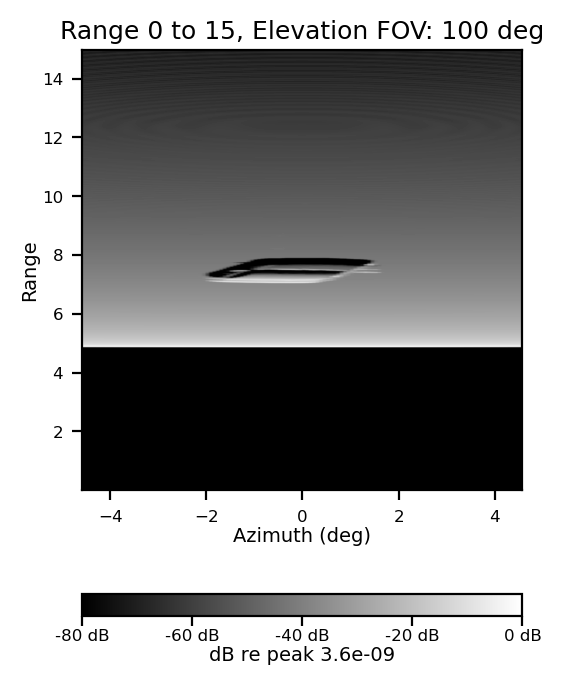
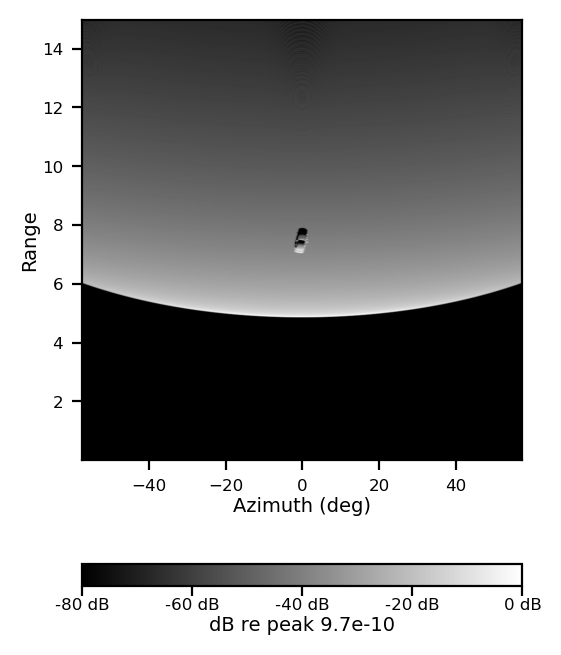
range density: proportional azimuth span, no panel title
Claude-Session: https://claude.ai/code/session_01GGmVrkSgyd4LF9qZZbmMeN

Changed region(s): [[0.0303, 0.0305, 0.9697, 0.7939], [0.0909, 0.855, 0.9697, 0.9771], [0.0909, 0.6107, 0.1515, 0.6412]]

diff --git a/latex/main.tex b/latex/main.tex
@@ -969,37 +969,56 @@ the range of the car, $\rho_{near} = 0.016$ to $\rho_{far} = 14.98$. The $M = 95
 $1/F_s$ apart, one per signal sample, so the rows do not beat against the samples. The fan spans
 $\Theta_h = 100^\circ$ in elevation with $R_h = 1600$ rays, so $\Delta\psi = 0.063^\circ$. At the
 elevation $e = 40.6^\circ$ of \texttt{pose\_num} 000000, the fan needs
-$2(90^\circ - e) = 98.9^\circ$ to reach nadir, and the sensor height is $h = 4.88$. All other
-parameters are the defaults of Table \ref{tab:fls-params}: a range of $\lVert\vec{v}\rVert = 7.5$,
-a Gaussian pulse with $B_s = 32$ and $F_s = 64$, $P = 128$ pings across $9.15^\circ$, $R_w = 350$
-rays across $10^\circ$, and $\beta = 0.1^\circ$. Figure \ref{fig:fls-range-density} shows the image
-in dB relative to its peak, with a floor of $-80$~dB.
+$2(90^\circ - e) = 98.9^\circ$ to reach nadir, and the sensor height is $h = 4.88$. The image spans
+$\Theta_p = 2$~rad $= 114.6^\circ$ in azimuth, so that its arc at the range of the car,
+$\Theta_p\lVert\vec{v}\rVert = 15$, matches its range axis and the car keeps its proportions. To
+keep the beam and the azimuth rays at the default spacing relative to the pings, the $P = 512$ pings
+steer a beam of $\beta = 0.31^\circ$, and the fan has $R_w = 1299$ rays over
+$\Theta_w = \Theta_p + 3\beta = 115.5^\circ$. All other parameters are the defaults of Table
+\ref{tab:fls-params}: a range of $\lVert\vec{v}\rVert = 7.5$ and a Gaussian pulse with $B_s = 32$
+and $F_s = 64$. Figure \ref{fig:fls-range-density} shows the image in dB relative to its peak, with
+a floor of $-80$~dB.
 
 Nothing returns from before $\rho = h$, the water column between the sensor and the seafloor. The
 image peaks just past it, at $\rho = 4.89$. At nadir $\Delta\rho$ falls to second order,
 $h\Delta\psi^2/2 = 3\times10^{-6}$, so over $70$ elevation rays from the last $4.6^\circ$ of the fan
-land within one sample of nadir. Beyond nadir, the seafloor darkens steadily. Away from the car
-($|\phi_i| > 2^\circ$), its median level is $-24.2$~dB at $\rho = 5.5$, $-40.5$~dB at the range of
-the car, $\rho = 7.5$, and $-65.0$~dB at $\rho = 14$. The brightest return of the car, at
-$-6.7$~dB, is weaker than the nadir line. Counting the first-bounce returns of the fan per sample
-and per azimuth ray gives $5.2$ at $\rho = 5.5$, $1.6$ at $7.5$, $0.80$ at $10$, and $0.33$ at $15$,
-within $3\%$ of $1/(F_s\Delta\rho)$. From $\rho = 6$ to $12$ the seafloor falls by $29.1$~dB. The
-image is shown as $20\log_{10}$ of a pixel, and a pixel is linear in the energies it sums. Over that
-span the returns per sample fall $6.4$-fold ($16.1$~dB), the spreading loss of
-(\ref{eq:sonar-energy}) falls $4$-fold ($12.0$~dB), and the energy of a return before spreading
-falls by $15\%$ ($1.2$~dB), $29.3$~dB in total. More than half of the fall-off is therefore the
-density of the rays rather than the spreading loss.
+land within one sample of nadir. Beyond nadir, the seafloor darkens steadily. Between $5^\circ$ and
+$15^\circ$ off boresight, beside the car, its median level is $-23.8$~dB at $\rho = 5.5$,
+$-40.4$~dB at the range of the car, $\rho = 7.5$, and $-64.7$~dB at $\rho = 14$. The brightest
+return of the car, at $-6.9$~dB, is weaker than the nadir line. Near boresight, the first-bounce
+returns of the fan per sample and per azimuth ray number $5.2$ at $\rho = 5.5$, $1.6$ at $7.5$,
+$0.80$ at $10$, and $0.33$ at $15$, within $3\%$ of $1/(F_s\Delta\rho)$. From $\rho = 6$ to $12$
+the seafloor falls by $29.2$~dB. The image is shown as $20\log_{10}$ of a pixel, and a pixel is
+linear in the energies it sums. Over that span the returns per sample fall $6.4$-fold
+($16.1$~dB), the spreading loss of (\ref{eq:sonar-energy}) falls $4$-fold ($12.0$~dB), and the
+energy of a return before spreading falls by $15\%$ ($1.2$~dB), $29.3$~dB in total. More than half
+of the fall-off is therefore the density of the rays rather than the spreading loss.
+
+The bright nadir line only spans the middle of the image. Off boresight, the plane of a column of
+the fan does not contain the vertical, so its closest point on the seafloor lies at a more negative
+$\psi$ than on boresight. Beyond $|\phi_i| \approx 12^\circ$, that point lies past the
+$\psi = -50^\circ$ edge of the fan. The near edge of the image is then the edge of the fan, which
+meets the seafloor farther out the farther it is off boresight. It curves from $\rho = 4.89$ on
+boresight to $5.42$ at $40^\circ$ and $6.05$ at the edges of the image. Without the pile-up of rays
+at nadir, it dims, to $-12.7$~dB at $40^\circ$ and $-22.0$~dB at the edges.
 
 The same thinning undersamples the far seafloor. At the range of the car,
 $\Delta\rho = 0.0096$ is half the $0.62/B_s = 0.019$ width of the pulse, so the returns overlap and
 the seafloor is smooth. $\Delta\rho$ reaches the pulse width at $\rho = 10$ and twice it at
-$\rho = 14$, and beyond $\rho \approx 10$ the seafloor breaks into concentric arcs centered on
-boresight. These are the rings of Figure \ref{fig:fsbw} at high $B_s$, now driven by range within a
-single image instead of by bandwidth. The arcs curve because a row of the fan at a fixed $\psi$
-meets the seafloor farther out at the edges of the azimuth fan than at its center. The standard
-deviation of the seafloor about its local mean, in dB over windows $0.5$ long, is at most $0.1$~dB
-out to $\rho = 9$, where $\Delta\rho$ is $0.79$ pulse widths. It is $0.36$~dB at $\rho = 10$, $1.2$
-at $11$, $2.7$ at $12$, and $6.8$~dB at $14$, where $\Delta\rho$ is $2.1$ pulse widths.
+$\rho = 14$, and beyond $\rho \approx 10$ the seafloor near boresight breaks into concentric arcs.
+These are the rings of Figure \ref{fig:fsbw} at high $B_s$, now driven by range within a single
+image instead of by bandwidth. Within $1^\circ$ of boresight, the standard deviation of the
+seafloor about its local mean, in dB over windows $0.5$ long, is at most $0.1$~dB out to $\rho = 9$,
+where $\Delta\rho$ is $0.79$ pulse widths. It is $0.37$~dB at $\rho = 10$, $1.3$ at $11$, $2.8$ at
+$12$, and $6.7$~dB at $14$, where $\Delta\rho$ is $2.1$ pulse widths.
+
+The arcs fade off boresight because of the beam. A row of the fan at a fixed $\psi$ meets the
+seafloor farther out the farther it is from boresight, so its range changes across the beam of one
+ping. On boresight the row is flat, and the gaps between rows reach the image. Off boresight, the
+beam spans rows over a range that grows with $|\phi_i|$, and once that range covers one spacing
+$\Delta\rho$ the beam fills the gaps. At $\rho = 14$, the range spanned by one beam width is
+$0.28\Delta\rho$ at $5^\circ$ and $1.2\Delta\rho$ at $20^\circ$, and the deviation falls from
+$6.7$~dB on boresight to $4.7$~dB at $5^\circ$ and $0.05$~dB at $20^\circ$.
 
 The condition of Section \ref{sec:bw-ray-density} carries over with the sonar's spacing: the image
 is smooth when $\Delta\rho$ at its far edge stays below the pulse width, or
@@ -1015,11 +1034,13 @@ window from $\rho = 6.9$ to $8.1$, so its spacing at the far edge is $0.0078$, $
 \begin{figure}[H]
   \centering
   \includegraphics[trim=0 0 0 0, clip, width=0.6\textwidth]{figs/fls_stitched_range_density.png}
-  \caption{Forward-looking sonar image from the sensor out to twice the range of the car, with a
-  $100^\circ$ elevation fan of $1600$ rays that reaches nadir. The image is in dB relative to its
-  peak at nadir, $\rho = 4.89$, with a floor of $-80$~dB. The seafloor darkens with range as the rays
-  of the fan thin out, and beyond $\rho \approx 10$, where its returns are spaced farther apart than
-  the pulse width, it breaks into concentric arcs.}
+  \caption{Forward-looking sonar image from the sensor out to twice the range of the car,
+  $\rho = 0$ to $15$, over $114.6^\circ$ in azimuth. The elevation fan spans $100^\circ$ with
+  $1600$ rays, enough to reach nadir. The image is in dB relative to its peak at nadir,
+  $\rho = 4.89$, with a floor of $-80$~dB. The seafloor darkens with range as the rays of the fan
+  thin out. Beyond $\rho \approx 10$, where its returns are spaced farther apart than the pulse
+  width, the seafloor near boresight breaks into concentric arcs. The near edge curves outward off
+  boresight, where the lower edge of the fan rather than nadir bounds the image.}
   \label{fig:fls-range-density}
 \end{figure}
 

diff --git a/fls_paper_figures.py b/fls_paper_figures.py
@@ -119,15 +119,30 @@ def _fls_experiments():
     # One image from the sensor out to twice the car's range, with a fan wide enough to reach nadir
     # (needs 2*(90-40.6) = 99 deg), so the seafloor rays thin from dense near nadir to sparse far out
     fs = FLS_PAPER_BASELINE['spatial_fs']
-    range_swath = 2 * FLS_PAPER_BASELINE['sensor_distance'] - 2 / fs  # a sample in from 0, which the assert's float norm rejects
+    d = FLS_PAPER_BASELINE['sensor_distance']
+    range_swath = 2 * d - 2 / fs  # a sample in from 0, which the assert's float norm rejects
+    # azimuth span whose arc at the car's range, span * d, matches the 2d range axis, so the car keeps its proportions
+    density_span = np.degrees(2.0)
+    density_pings = 512
+    # beam and az rays per ping spacing as in the baseline
+    base_spacing = FLS_PAPER_BASELINE['image_azimuth_range'] / (FLS_PAPER_BASELINE['num_pings'] - 1)
+    density_beam = FLS_PAPER_BASELINE['azimuth_beam_width_deg'] * (density_span / (density_pings - 1)) / base_spacing
+    rays_per_deg = FLS_PAPER_BASELINE['num_ray_width'] / FLS_PAPER_BASELINE['ray_fov_az'] * \
+        FLS_PAPER_BASELINE['azimuth_beam_width_deg'] / density_beam
+    density_fov_az = density_span + 3 * density_beam  # paper's margin
     range_density = dict(
         name='range_density',
         vary={'image_range_swath': [range_swath]},
         overrides={'ray_fov_el': 100.0,
                    'num_ray_height': 1600,
+                   'image_azimuth_range': density_span,
+                   'num_pings': density_pings,
+                   'azimuth_beam_width_deg': density_beam,
+                   'ray_fov_az': density_fov_az,
+                   'num_ray_width': int(round(rays_per_deg * density_fov_az)),
                    'db_floor': -80.0,  # the far seafloor sits ~70 dB under the nadir peak
                    'num_range_values': round(range_swath * fs) + 1},  # a row per signal sample
-        custom_title_strings=['Range 0 to %.0f, Elevation FOV: 100 deg' % range_swath],
+        custom_title_strings=[''],  # described in the paper's caption
     )
 
     return [
